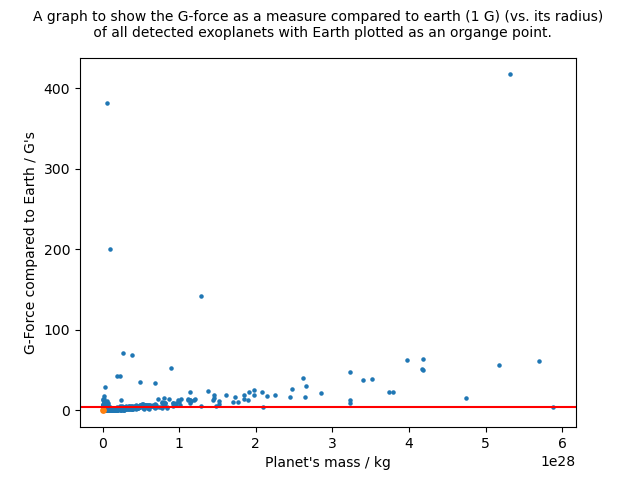
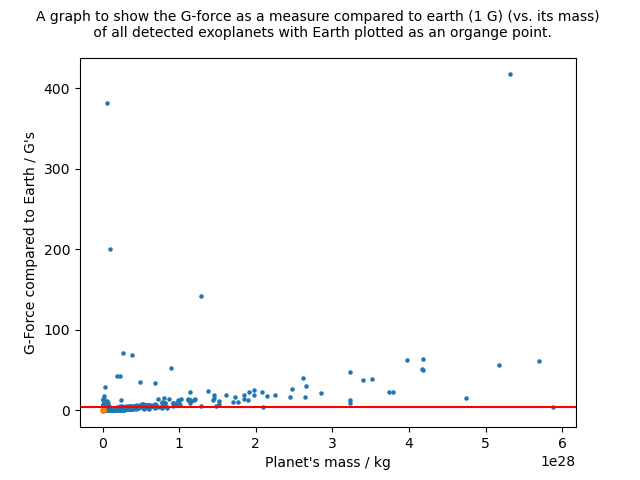
Update graph title and output

Changed region(s): [[0.0625, 0.0, 0.9375, 0.0625]]

diff --git a/explore.py b/explore.py
@@ -560,7 +560,7 @@ def graph_gravity(exo, hab, savepathall, savepathhab):
 	# plot
 	plt.clf()
 
-	plt.suptitle("A graph to show the G-force as a measure compared to earth (1 G) (vs. its radius) \n of all detected exoplanets with Earth plotted as an organge point.", fontsize=10)
+	plt.suptitle("A graph to show the G-force as a measure compared to earth (1 G) (vs. its mass) \n of all detected exoplanets with Earth plotted as an organge point.", fontsize=10)
 	plt.xlabel("Planet's mass / kg")
 	plt.ylabel("G-Force compared to Earth / G's")
 
@@ -593,7 +593,7 @@ def graph_gravity(exo, hab, savepathall, savepathhab):
 	# clear last plot
 	plt.clf()
 
-	plt.suptitle("A graph to show the G-force as a measure compared to earth (1 G) (vs. its radius) of all \ndetected habitable exoplanets with Earth plotted as an organge point.", fontsize=10)
+	plt.suptitle("A graph to show the G-force as a measure compared to earth (1 G) (vs. its mass) of all \ndetected habitable exoplanets with Earth plotted as an organge point.", fontsize=10)
 	plt.xlabel("Planet's mass / kg")
 	plt.ylabel("G-Force compared to Earth / G's")
 
